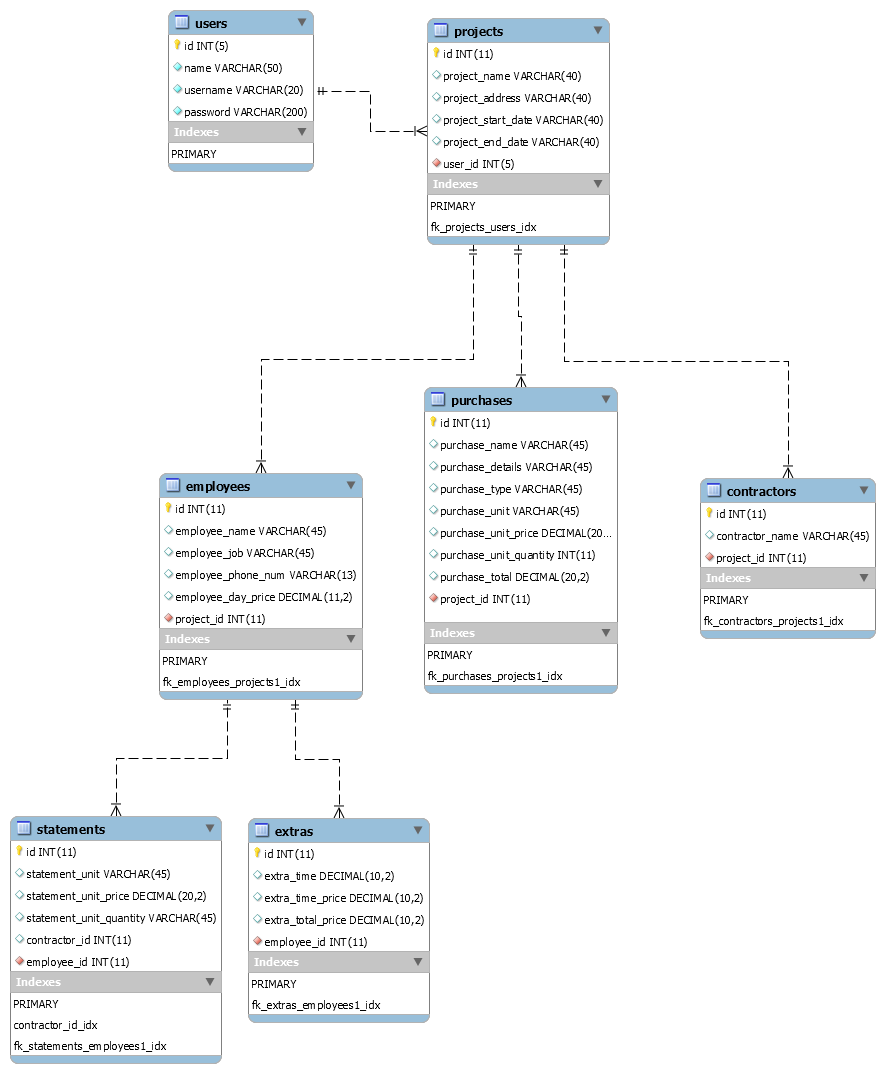
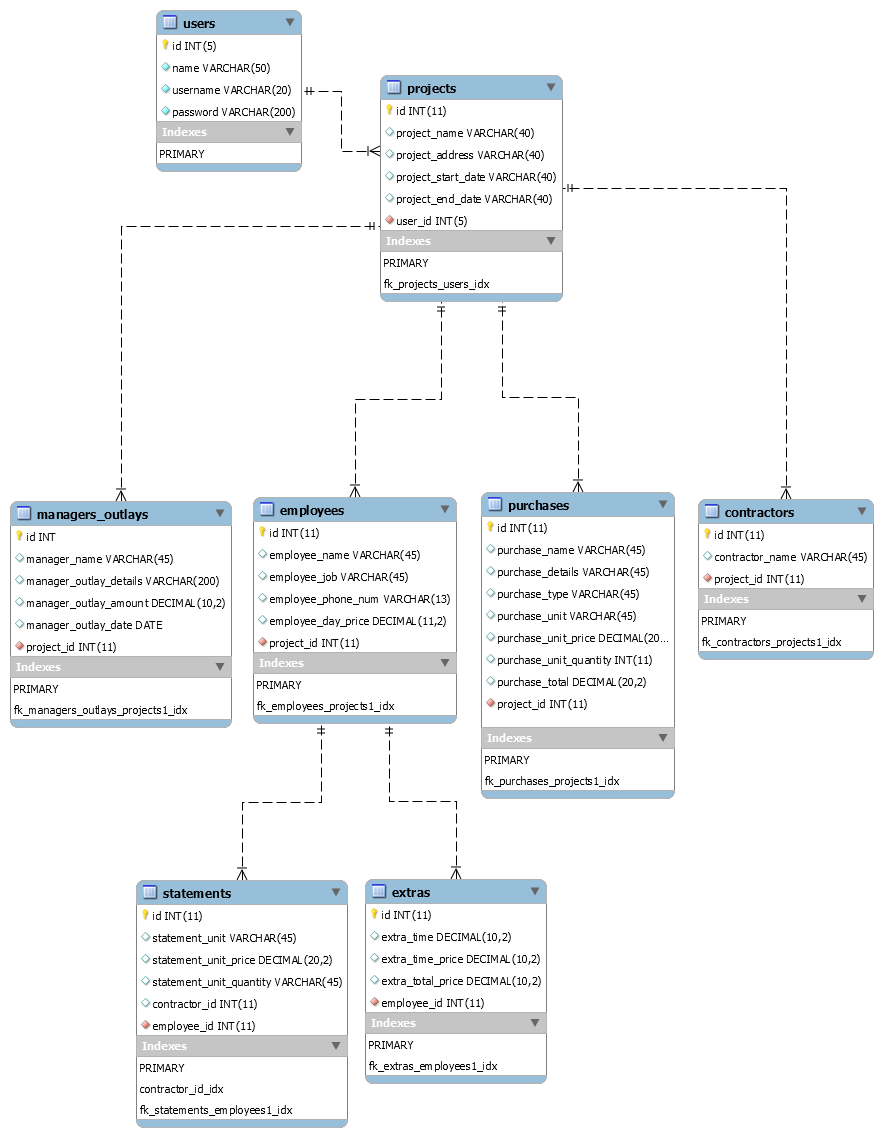
Implement "managers"

diff --git a/routes/managers.js b/routes/managers.js
@@ -1,0 +1,104 @@
+const express = require('express');
+const security = require('../security/security');
+const database = require('../models/database');
+const router = express.Router();
+
+const dbService = database.getDbServiceInstance();
+
+router.get('/:projectId/', security.checkAuthenticated, async (req, res) => {
+  const { projectId } = req.params;
+
+  const managers = await dbService.getManagersByProjectId(projectId);
+
+  res.render('managers/index', { managers: managers, projectId: projectId });
+});
+
+router.get('/:projectId/new', security.checkAuthenticated, (req, res) => {
+  const { projectId } = req.params;
+
+  res.render('managers/new', { projectId: projectId, label: false });
+});
+
+router.post('/:projectId/create', security.checkAuthenticated, async (req, res) => {
+  try {
+    const { projectId } = req.params;
+    const managerName = req.body.managerName;
+    const managerOutlayDetails = req.body.managerOutlayDetails;
+    const managerOutlayAmount = req.body.managerOutlayAmount;
+    const managerOutlayDate = req.body.managerOutlayDate;
+
+    await dbService.addNewManager(managerName, managerOutlayDetails, managerOutlayAmount, managerOutlayDate, projectId);
+
+    res.redirect('/managers/' + projectId);
+  } catch (error) {
+    console.log(error.message);
+    res.redirect('/managers/' + projectId + '/new');
+  }
+});
+
+router.post('/:projectId/delete/:managerId', security.checkAuthenticated, async (req, res) => {
+  try {
+    const { projectId ,managerId } = req.params;
+
+    const result = await dbService.deleteManagerById(managerId);
+
+    if (result) res.redirect('/managers/' + projectId);
+  } catch (error) {
+    console.log(error.message);
+  }
+});
+
+router.get('/:projectId/info/:managerId', security.checkAuthenticated, async (req, res) => {
+  try {
+    const { projectId, managerId } = req.params;
+
+    const manager = await dbService.getManagerById(managerId);
+
+    res.render('managers/info', { manager: manager, projectId: projectId } );
+  } catch (error) {
+    console.log(error.message);
+  }
+});
+
+router.get('/:projectId/edit/:managerId', security.checkAuthenticated, async (req, res) => {
+  try {
+    const { projectId ,managerId } = req.params;
+
+    const manager = await dbService.getManagerById(managerId);
+
+    res.render('managers/edit', { manager: manager, projectId: projectId, label: false});
+  } catch (error) {
+    console.log(error.message);
+  }
+});
+
+router.post('/:projectId/edit/:managerId', security.checkAuthenticated, async (req, res) => {
+  try {
+    const { projectId, managerId } = req.params;
+    const nManagerName = req.body.nManagerName;
+    const nManagerOutlayDetails = req.body.nManagerOutlayDetails;
+    const nManagerOutlayAmount = req.body.nManagerOutlayAmount;
+    const nManagerOutlayDate = req.body.nManagerOutlayDate;
+
+    await dbService.editManagerById(nManagerName, nManagerOutlayDetails, nManagerOutlayAmount, nManagerOutlayDate, managerId);
+
+    res.redirect('/managers/' + projectId);
+  } catch (error) {
+    console.log(error.message);
+  }
+});
+
+router.post('/:projectId/report/:employeeId', security.checkAuthenticated, async (req, res) => {
+  try {
+    const { projectId, employeeId } = req.params;
+
+    const result = await dbService.editEmployeeById(employeeId, nEmployeeName, nEmployeeJob, nEmployeePhoneNum);
+
+    res.redirect('/employees/' + projectId);
+  } catch (error) {
+    console.log(error.message);
+  }
+});
+
+
+module.exports = router;

diff --git a/models/database.js b/models/database.js
@@ -396,6 +396,67 @@ class DbService {
       throw new Error(error.message);
     }
   }
+
+  async getManagersByProjectId(id) {
+    const sql = "SELECT * FROM managers WHERE project_id = ?";
+    const params = [id];
+
+    try {
+      const result = await this.runQuery(sql, params);
+      return result;
+    } catch (error) {
+      throw new Error(error.message);
+    }
+  }
+
+  async addNewManager(managerName, managerOutlayDetails, managerOutlayAmount, managerOutlayDate, projectId) {
+    const sql = "INSERT INTO managers (manager_name, manager_outlay_details, manager_outlay_amount, manager_outlay_date, project_id) VALUES (?, ?, ?, ?, ?)";
+    const params = [managerName, managerOutlayDetails, managerOutlayAmount, managerOutlayDate, projectId];
+
+    try {
+      const result = await this.runQuery(sql, params);
+      console.log(result)
+      return result;
+    } catch (error) {
+      throw new Error(error.message);
+    }
+  }
+
+  async getManagerById(id) {
+    const sql = "SELECT * FROM managers WHERE id = ?";
+    const params = [id];
+
+    try {
+      const result = await this.runQuery(sql, params);
+      return result[0];
+    } catch (error) {
+      throw new Error(error.message);
+    }
+  }
+
+  async deleteManagerById(id) {
+    const sql = "DELETE FROM managers WHERE id = ?";
+    const params = [id];
+
+    try {
+      const result = await this.runQuery(sql, params);
+      return result;
+    } catch (error) {
+      throw new Error(error.message);
+    }
+  }
+
+  async editManagerById(nManagerName, nManagerOutlayDetails, nManagerOutlayAmount, nManagerOutlayDate, managerId) {
+    const sql = "UPDATE managers SET manager_name = ?, manager_outlay_details = ?, manager_outlay_amount = ?, manager_outlay_date = ? WHERE id = ?";
+    const params = [nManagerName, nManagerOutlayDetails, nManagerOutlayAmount, nManagerOutlayDate, managerId];
+
+    try {
+      const result = await this.runQuery(sql, params);
+      return result;
+    } catch (error) {
+      throw new Error(error.message);
+    }
+  }
 }
 
 module.exports = DbService;

diff --git a/server.js b/server.js
@@ -15,6 +15,7 @@ const dashboardRouter = require('./routes/dashboard');
 const projectsRouter = require('./routes/projects');
 const employeesRouter = require('./routes/employees');
 const contractorsRouter = require('./routes/contractors');
+const managersRouter = require('./routes/managers');
 const purchasesRouter = require('./routes/purchases');
 const extrasRouter = require('./routes/extras');
 const deportesRouter = require('./routes/deportes');
@@ -47,6 +48,7 @@ app.use('/', dashboardRouter);
 app.use('/projects', projectsRouter);
 app.use('/employees', employeesRouter);
 app.use('/contractors', contractorsRouter);
+app.use('/managers', managersRouter);
 app.use('/purchases', purchasesRouter);
 app.use('/extras', extrasRouter);
 app.use('/deportes', deportesRouter);
